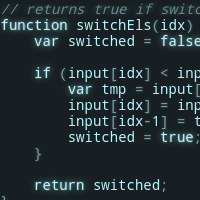
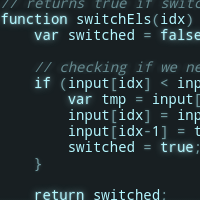
microlight

diff --git a/microlight/index.html b/microlight/index.html
@@ -6,7 +6,7 @@
     <meta http-equiv="X-UA-Compatible" content="IE=edge" />    
     <title>Microlight.js, code highlighting library</title>
 
-    <meta property="og:title" content="microlight.js, code-highlighting library (2.2k)" />
+    <meta property="og:title" content="microlight.js 2.2k" />
     <meta property="og:type" content="website" />
     <meta property="og:url" content="https://asvd.github.io/microlight/" />
     <meta property="og:image" content="https://asvd.github.io/microlight/microlight-preview.png" />
@@ -60,6 +60,7 @@
           function switchEls(idx) {
               var switched = false;
 
+              // checking if we need to switch the elements
               if (input[idx] &lt; input[idx-1]) {
                   var tmp = input[idx];
                   input[idx] = input[idx-1];
